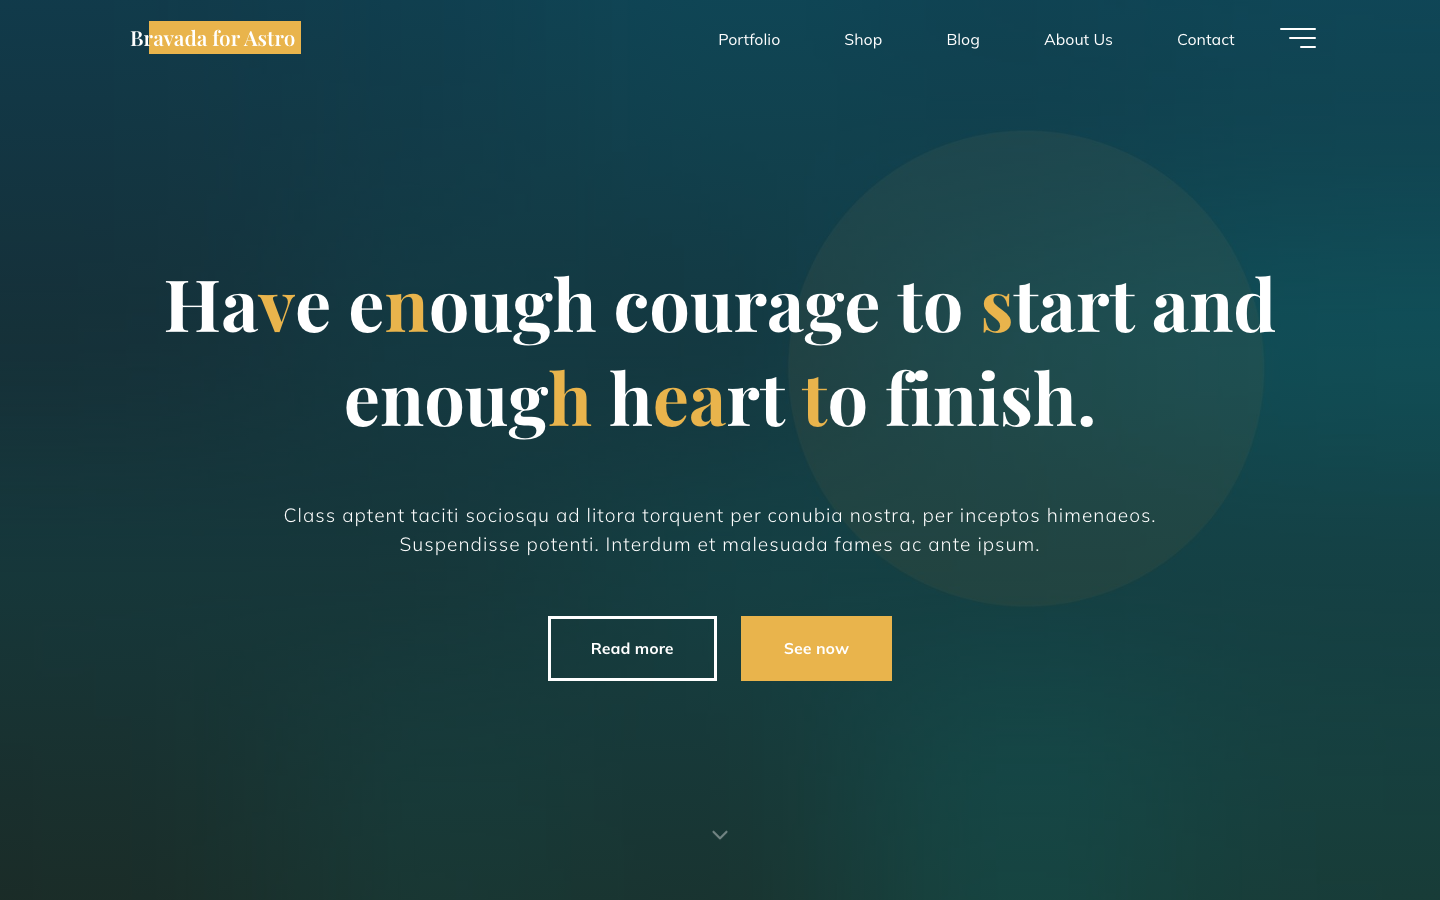
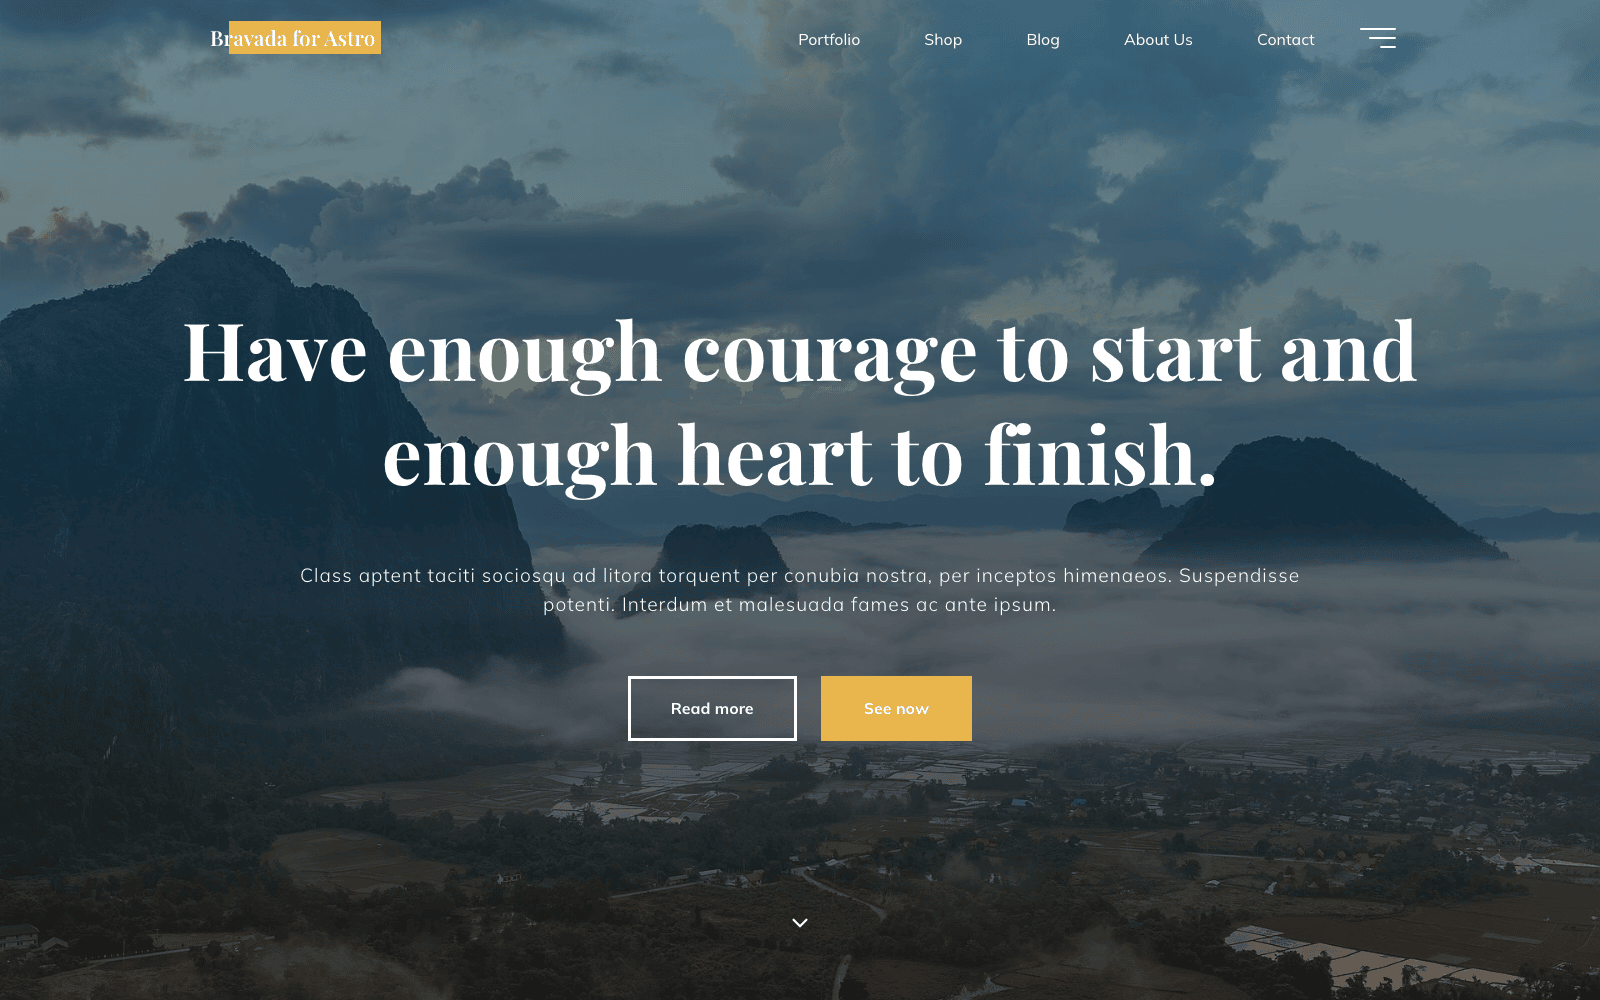
README: refresh screenshot and mention real photography + credits
The README screenshot and social preview both predated the imagery
refresh and still showed the flat teal placeholder hero. Recaptured
both against the new Laos karst-sunrise hero (reduced-motion capture
to avoid catching the letter-breakup animation mid-transition).

README also now points to CREDITS.md for image attribution, notes
the AVIF/WebP <picture> convention, and documents the product-page
gallery's zoom lens and magnifier lightbox in the Pages table.

diff --git a/README.md b/README.md
@@ -16,6 +16,12 @@ title sweeps, ghost section headers, the slow zoom-under-teal image hover, the
 dark footer — and rebuilds its **landing page as EmDash sections**: reusable
 blocks editors drop into any Portable Text field with the `/section` command.
 
+Every demo image — heroes, headers, shop and portfolio photography — is real
+CC0/CC BY photography rather than placeholder art; see
+[CREDITS.md](./CREDITS.md) for the full attribution table. Local images ship
+with pre-built AVIF/WebP siblings served through `<picture>` for the hero,
+page headers, portfolio, and project-grid images.
+
 ## Landing-page sections
 
 Bravada's front-page elements map to four custom Portable Text block types,
@@ -61,7 +67,7 @@ external one.
 | Category / tag archive | `/category/:slug`, `/tag/:slug` |
 | Portfolio project | `/portfolio/:slug` |
 | Project type / tag archive | `/project-type/:slug`, `/project-tag/:slug` |
-| Product | `/product/:slug` |
+| Product | `/product/:slug` (zoomable gallery: hover lens, click for a magnifier lightbox) |
 | Search | `/search` |
 | Static pages (about, contact, shop, …) | `/:slug` |
 